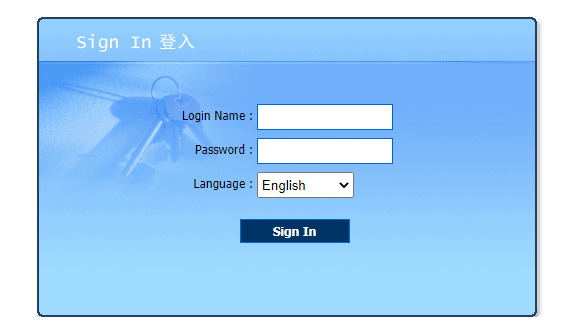
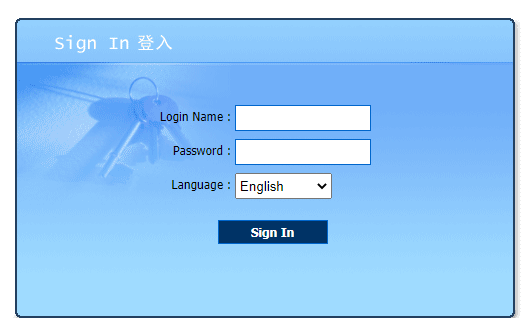
update for intro add in current user flow diagrams heuristic evaluation WIP

diff --git a/index.html b/index.html
@@ -22,10 +22,10 @@
 					<nav>
 						<ul>
 							<li><a href="#intro">Introduction</a></li>
+							<li><a href="#currentflow">Current User Flow</a></li>
+							<li><a href="#heuristic">Heuristic Evaluation</a></li>
 							<li><a href="#personas">Personas</a></li>
 							<li><a href="#one">Problem Statements</a></li>
-							<li><a href="#two">What we do</a></li>
-							<li><a href="#three">Get in touch</a></li>
 						</ul>
 					</nav>
 				</div>
@@ -44,26 +44,86 @@
 									<li>Login quicker</li>
 									<li>Browse / navigate easier regardless of type of devices used</li>
 									<li>Create player account(s) quicker</li>
-									<li>Allow for passing of player account(s) details to players</li>
+									<li>Allow for easier passing of player account(s) details to players</li>
 								</ul>
 							</p>
 							<h2>Who are our users?</h2>
 							<p>
-								Our users are the agents, including MA, SMA, who are using our agent site to create member. They are users who:
+								<b>Brief: </b>Our users are the agents, including MA, SMA, or VVIPs possibly who uses our agent site for:-
+								<ul>
+									<li>Manage downline (members / players) accounts' credit / balance / commission</li>
+									<li>Transfer downline balance</li>
+									<li>Checking reports (winloss / statement etc)</li>
+									<li><b>Member account(s) creation</b></li>
+								</ul>
 							</p>
 
 							<ul class="actions">
-								<li><a href="#personas" class="button scrolly">Personas</a></li>
+								<li><a href="#currentflow" class="button scrolly">Existing User Flow</a></li>
 							</ul>
 						</div>
 					</section>
 
-					<section id="personas" class="wrapper style2 fullscreen fade-up">
+				<!-- current user flow -->
+					<section id="currentflow" class="wrapper style2 fullscreen fade-up">
+						<div class="inner">
+							<h1>End-to-end User Flow for Member Creation</h1>
+							<h2>Login Flow</h2>
+							<a class="image" href="images/login_flow.png" data-lightbox="userflow" data-title="Login User Flowchart"><img class="main" src="images/login_flow.png" alt="Login User Flowchart" /></a>
+							<br />
+							<h4>Things to note for user flow:</h4>
+							<ul>
+								<li>Where do user go if they forget their username / password?</li>
+								<li>Security OTP / code will prompt if user last login IP and current login IP is different</li>
+								<li>If security OTP / code wasn't prompted at first after login, going pages under Member Mgmt, Transfer, Account, Security will prompt for it</li>
+							</ul>
+
+							<h2>Member Creation Flow</h2>
+							<a class="image" href="images/member_creation_flow.png" data-lightbox="userflow" data-title="Member Creation Flowchart"><img class="main" src="images/member_creation_flow.png" alt="Member Creation Flowchart" /></a>
+							<!-- <ul>
+								<li>Required fields are not stated</li>
+								<li>For copy settings to work, account creator need to know which account to copy from</li>
+								<li>There is a requirement for password creation which is stated at the <b>bottom</b> of the page</li>
+								<li>Validation code requires reading through hard-to-read images to get the validation</li>
+							</ul> -->
+
+							<ul class="actions">
+								<li><a href="#heuristic" class="button scrolly">Heuristic Evalulaton (Desktop)</a></li>
+							</ul>
+						</div>
+					</section>
+
+				<!-- heuristic evaluation -->
+					<section id="heuristic" class="wrapper style4 fullscreen fade-up">
+						<div class="inner">
+							<h2>Heuristic Evaluation for End-to-end Flow of Member Creation</h2>
+							<div class="features">
+								<section class="content section-title">Desktop View</section>
+								<section class="content section-title border-left">Tablet View</section>
+								<section class="content section-title border-left">Evalation</section>
+								<section class="content">
+									<a class="image" href="images/login.png" data-lightbox="heuristic" data-title="Login Page"><img class="main" src="images/login.png" alt="Login Page" /></a>
+								</section>
+								<section class="content border-left">
+									<a class="image" href="images/login_tablet.png" data-lightbox="heuristic" data-title="Login Page (Tablet)"><img class="main" src="images/login_tablet.png" alt="Login Page (Tablet)" /></a>
+								</section>
+								<section class="content border-left">
+									<h3>Fill in username/ password to login</h3>
+									<p>User can fill in given username/password and choose a language they prefer, then click on either "Sign In" or enter "Enter" on their keboard to submit form.</p>
+									<ul>Heuristic violated: 
+										<li>Error prevention (no option to recover lost password / username.</li>
+									</ul>
+								</section>
+							</div>
+					</section>
+
+				<!-- personas -->
+					<section id="personas" class="wrapper style3 fullscreen fade-up">
 						<div class="inner">
 							<h1>Personas</h1>
 							<section class="persona">
 								<div class="about">
-									<a class="image" href="images/persona1.jpg" data-lightbox="persona-1" data-title="Noah Chong">
+									<a class="image" alt="Noah Chong">
 										<img src="images/persona1.jpg">
 									</a>
 									<br />
@@ -97,7 +157,7 @@
 						</div>
 					</section>
 
-				<!-- One -->
+				<!-- problem statements -->
 					<section id="one" class="wrapper style2 fade-up">
 						<div class="inner">
 							<a href="#" class="image"><img class="main" src="images/problem_statements.png" alt=" problem-statements" /></a>

diff --git a/assets/css/main.css b/assets/css/main.css
@@ -117,7 +117,7 @@ input, select, textarea {
 	body, input, select, textarea {
 		color: rgba(255, 255, 255, 0.55);
 		font-family: Arial, Helvetica, sans-serif;
-		font-size: 16.5pt;
+		font-size: 14.5pt;
 		font-weight: normal;
 		line-height: 1.75;
 	}
@@ -2055,22 +2055,25 @@ input, select, textarea {
 		background: rgba(255, 255, 255, 0.05);
 		margin: 0 0 2em 0;
 	}
-
+		
 		.features section {
 			padding: 3.5em 3em 1em 7em ;
-			width: 50%;
+			width: 33.33%;
 			border-top: solid 1px rgba(255, 255, 255, 0.15);
 			position: relative;
+		}
+		.features.full section {
+			width: 100%;
 		}
 
 			.features section:nth-child(-n + 2) {
 				border-top-width: 0;
 			}
 
-			.features section:nth-child(2n) {
+			.features section.border-left {
 				border-left: solid 1px rgba(255, 255, 255, 0.15);
 			}
-
+			
 			.features section .icon {
 				-moz-transition: opacity 0.5s ease, -moz-transform 0.5s ease;
 				-webkit-transition: opacity 0.5s ease, -webkit-transform 0.5s ease;
@@ -2238,6 +2241,14 @@ input, select, textarea {
 			opacity: 0;
 		}
 
+		.features section .image img {
+			margin-bottom: 1em;
+		}
+
+		.features section.content {
+			padding: 3.5em 3em 1em 3.5em ;
+		}
+
 		@media screen and (max-width: 980px) {
 
 			.features {
@@ -2253,6 +2264,10 @@ input, select, textarea {
 					.features section:first-child {
 						border-top-width: 0 !important;
 					}
+
+				.features section.section-title {
+					display: none;
+				}
 
 		}
 
@@ -3270,7 +3285,7 @@ input, select, textarea {
 		.wrapper > .inner {
 			padding: 5em 5em 3em 5em ;
 			max-width: 100%;
-			width: 75em;
+			width: 85em;
 		}
 
 			@media screen and (max-width: 1680px) {
@@ -3932,6 +3947,10 @@ input, select, textarea {
 
 		}
 
+.image img {
+	max-width: 100%;
+}
+
 /* Intro */
 
 	#intro {
@@ -3943,7 +3962,7 @@ input, select, textarea {
 	}
 
 		#intro p {
-			font-size: 1.25em;
+			font-size: 1.15em;
 		}
 
 			@media screen and (max-width: 980px) {
